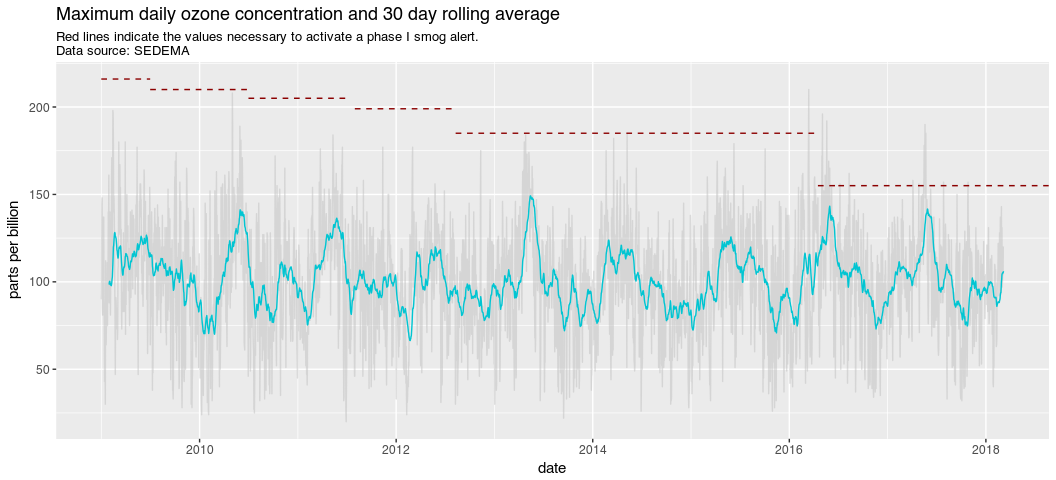
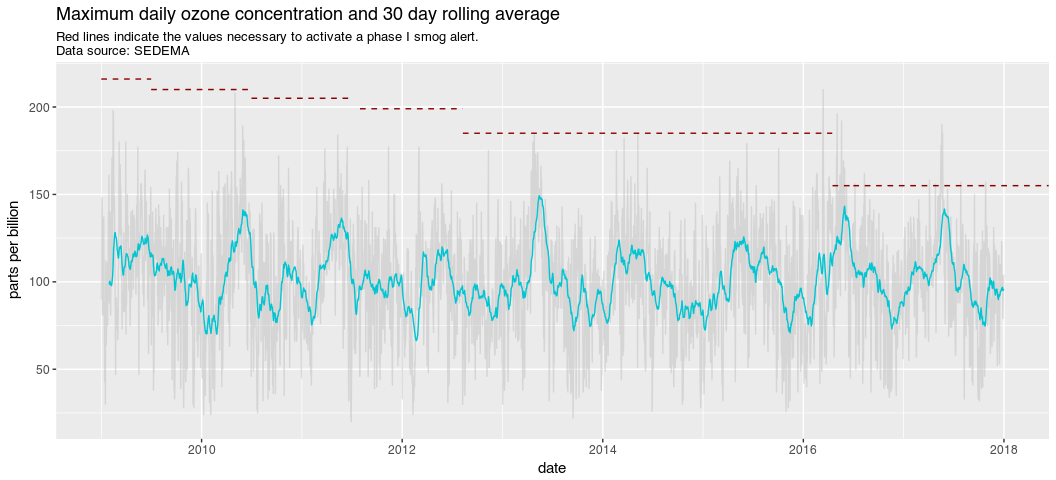
fixes #4

diff --git a/readme.md b/readme.md
@@ -1,7 +1,7 @@
 Mexico City Air Quality Data
 ================
 Diego Valle-Jones
-March 08, 2018
+March 14, 2018
 
 -   [What does it do?](#what-does-it-do)
 -   [Installation](#installation)
@@ -46,7 +46,7 @@ Note that the version on CRAN might not reflect the most recent changes made to 
 Core Functions
 --------------
 
-The package consists mainly of six functions:
+The package core functions:
 
 -   `get_station_data` and `get_station_month_data` download pollution, wind and temperature data for each of the measuring stations in the original units (ppb, µg/m³, etc).
 -   `get_station_imeca` download pollution values for each station in IMECAs
@@ -145,7 +145,7 @@ o3 <- get_station_data(criterion = "MAXIMOS", # Can be one of MAXIMOS (daily max
                                               # or HORARIOS (hourly average)
                        pollutant = "O3", # Can be one of "SO2", "CO", "NOX", "NO2", "NO", "O3", 
                                          # "PM10", "PM25", "WSP", "WDR", "TMP", "RH"
-                       year = 2009:2018) # A numeric vector, the earliest year allowed is 1986
+                       year = 2009:2017) # A numeric vector, the earliest year allowed is 1986
 knitr::kable(head(o3))
 ```
 
